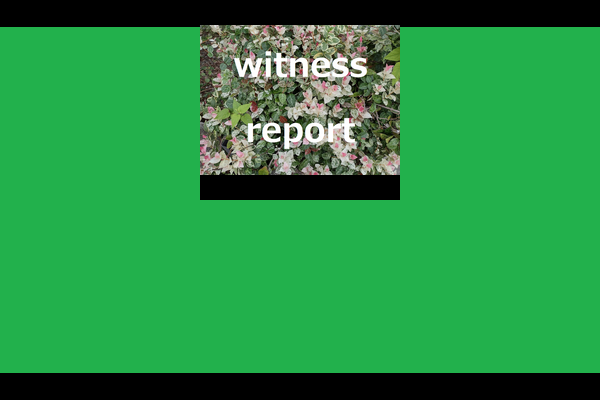
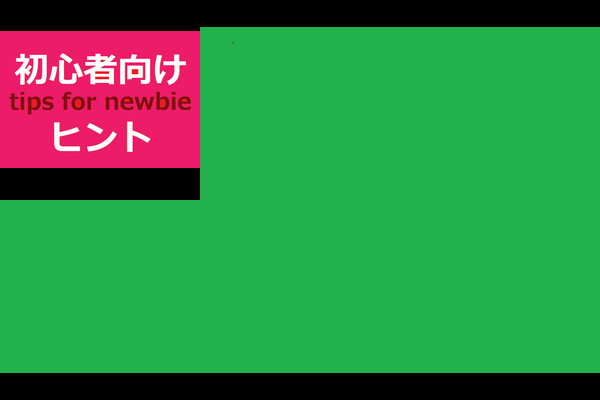
m

Changed region(s): [[0.0, 0.06, 0.69, 0.51]]

diff --git a/sharp3/app.js b/sharp3/app.js
@@ -76,14 +76,23 @@ for (let index = 0; index < urls.length; index++) {
 //     }
 
 
+//const circleShape = Buffer.from(`<svg><circle cx="${r}" cy="${r}" r="${r}" /></svg>`);
+
 const s = await sharp(`./back.png`)
-for (let index = 0; index < urls.length-1; index++) {
+for (let index = 0; index < urls.length; index++) {
     let left = index * 200;
-    await s.composite([{
-            input: `./${index + 1}.png`, 
+    await s.composite([
+        {
+            input: `./${1}.png`, 
             top: 0, 
-            left: left
-    }]);
+            left: 0
+    },
+    {
+        input: `./${2}.png`, 
+        top: 0, 
+        left: 200
+},
+]);
 }
 await s.toFile(`./outout.png`);
 
